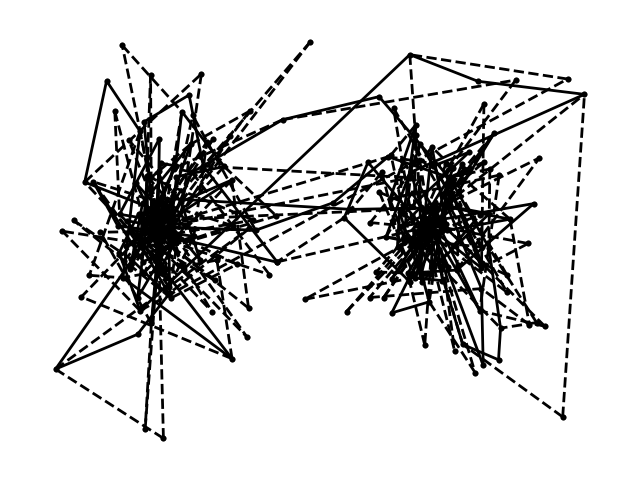
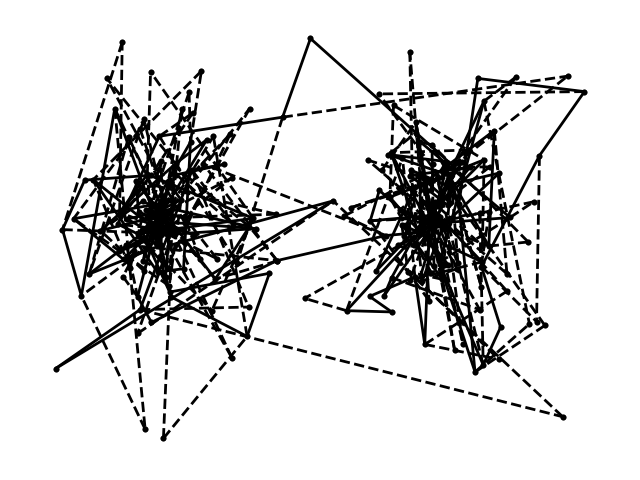
Unica lista rcl e novo calculo.

diff --git a/libs/spikes.py b/libs/spikes.py
@@ -29,7 +29,6 @@ def spikes_tsp(array_nodes, customers, ALPHA):
             nearest_value = np.inf
             second_nearest_value = np.inf   
             furthest_value = -np.inf
-            second_furthest_value = -np.inf
             
             # Escolher vértice mais distante, segundo mais distante, 
             # mais próximo e segundo mais próximo.
@@ -48,44 +47,38 @@ def spikes_tsp(array_nodes, customers, ALPHA):
                             nearest_value = length_candidate_node
                         else:
                             second_nearest_value = length_candidate_node
-                    # Lógica para decidir vértice mais distante e segundo mais distante.
-                    if length_candidate_node > second_furthest_value:
-                        if length_candidate_node > furthest_value:
-                            # Se for o mais distante, atualiza o antigo mais distante para segundo 
-                            # mais distante.
-                            second_furthest_value = furthest_value
-                            
-                            # Atualiza os valores para furthest value
-                            furthest_value = length_candidate_node
-                        else:
-                            second_furthest_value = length_candidate_node
+                    # Escolher o vértice mais distante.
+                    if length_candidate_node > furthest_value:
+                        # Atualiza os valores para furthest value
+                        furthest_value = length_candidate_node
                         
-            # A ideia é utilizar uma lista de candidatos mais próximo e segundo mais próximo.
-            rcl_nearest_value = []
-            rcl_second_nearest_value = []
+            # A ideia é utilizar uma lista de candidatos utilizando mais próximo e segundo mais próximo no calculo.
+            rcl = []
+    
             # Preencher a RCL
             for candidate_node in array_nodes:
                 if candidate_node in dict_nodes:
                     length_candidate_node = utilities.length(
                         customers[solution_spiked[insert_position - 1]], customers[candidate_node])
-                    # Verificar se o vértice está no range de valores do mais próximo ou do 
-                    # segundo mais próximo.
-                    if length_candidate_node <= nearest_value + (furthest_value - nearest_value)*ALPHA:
-                        # Inserir o nó na rcl de mais próximos
-                        rcl_nearest_value.append(candidate_node)
-                    elif length_candidate_node <= second_nearest_value + (second_furthest_value - second_nearest_value)*ALPHA:
-                        # Inserir o nó na rcl de segundo mais próximo
-                        rcl_second_nearest_value.append(candidate_node)
-
-
-            # Inserir o segundo vértice mais próximo primeiro em k + 1 e o mais próximo em k + 2
+                    # Verificar se o vértice está no range de valores da RCL segundo a equação:
+                    # second_nearest + (furthest - second_nearest)*ALPHA 
+                    # Cálculo só funciona se houver um second_nearest...
+                    # Tratando o caso em que não existe second_nearest
+                    if second_nearest_value == np.inf:
+                        second_nearest_value = nearest_value
+                    if length_candidate_node <= second_nearest_value + (furthest_value - second_nearest_value)*ALPHA:
+                        # Inserir o nó na rcl 
+                        rcl.append(candidate_node)
+                   
             # Repetir até que insert_position >= size_circuit
-            if rcl_second_nearest_value:
-                solution_spiked[insert_position] = random.choice(rcl_second_nearest_value)
+            if rcl:
+                solution_spiked[insert_position] = random.choice(rcl)
+                rcl.remove(solution_spiked[insert_position])
                 dict_nodes.pop(solution_spiked[insert_position])
                 insert_position += 1
-            if insert_position < size_circuit and rcl_nearest_value:
-                solution_spiked[insert_position] = random.choice(rcl_nearest_value)
+            if insert_position < size_circuit and rcl:
+                solution_spiked[insert_position] = random.choice(rcl)
+                rcl.remove(solution_spiked[insert_position])
                 dict_nodes.pop(solution_spiked[insert_position])
                 insert_position += 1
 
